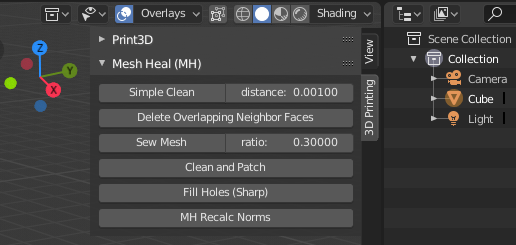
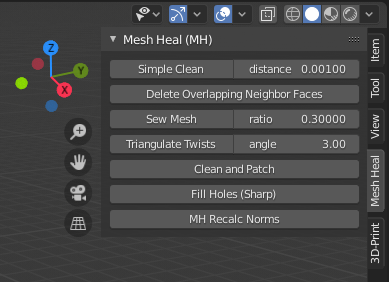
Update documentation (Triangulate Twisted Faces)

diff --git a/doc/html/searchindex.js b/doc/html/searchindex.js
@@ -1,1 +1,1 @@
-Search.setIndex({docnames:["index","mesh_heal"],envversion:{"sphinx.domains.c":1,"sphinx.domains.changeset":1,"sphinx.domains.cpp":1,"sphinx.domains.javascript":1,"sphinx.domains.math":2,"sphinx.domains.python":1,"sphinx.domains.rst":1,"sphinx.domains.std":1,sphinx:54},filenames:["index.rst","mesh_heal.rst"],objects:{},objnames:{},objtypes:{},terms:{"case":1,"default":1,"final":1,"try":1,The:1,Then:1,abov:1,action:1,activ:1,added:1,addit:1,affect:1,algorithm:1,all:1,also:1,altern:1,alwai:1,analysi:1,angl:1,approach:1,appropri:1,aspect:1,attempt:1,avail:1,bad:1,bar:1,been:1,below:1,best:1,blender2:1,blender:1,both:1,boundari:1,branch:1,calcul:1,can:1,cast:1,check:1,choos:1,clone:1,close:1,closebi:1,code:1,com:1,combin:1,commun:1,confirm:1,connect:1,consist:1,contain:1,content:0,continu:1,conveni:1,convert:1,correct:1,could:1,creat:1,current:1,cycl:1,dangl:1,depend:1,descript:1,determin:1,difficult:1,direct:1,distanc:1,document:0,doe:1,don:1,done:1,download:1,each:1,edg:1,edit:1,either:1,emiss:1,enabl:1,especi:1,exampl:1,fail:1,few:1,fewer:1,file:1,finish:1,first:1,form:1,from:1,get:1,github:1,good:1,guarante:1,have:1,heurist:1,high:1,hit:1,how:1,http:1,ident:1,includ:1,inform:1,inner:1,insid:1,instal:0,instruct:1,intersect:1,introduct:0,isosurfac:1,issu:1,iter:1,layer:1,left:1,length:1,level:1,list:1,locat:1,loop:1,made:1,main:1,make:1,mani:1,manifold:1,mark:1,master:1,mean:1,meant:1,measur:1,menu:1,merg:1,mesh_heal:1,method:1,mode:1,non:1,normal:1,number:1,obj:1,object:1,offici:1,ons:1,open:1,oper:1,opposit:1,order:1,outer:1,outward:1,own:1,pair:1,panel:1,part:1,phase:1,pleas:1,possibl:1,prefer:1,prepend:1,primarili:1,print:1,problem:1,process:1,produc:1,progress:1,propag:1,rai:1,ratio:1,ration:1,recalcul:1,recommend:0,recurs:1,reduc:1,refil:1,reli:1,remov:1,render:1,repeat:1,repeatedli:1,report:1,requir:1,result:1,risk:1,routin:1,run:1,seam:1,search:1,see:1,select:1,set:1,sever:1,shader:1,shapest:1,share:1,sharpest:1,show:1,side:1,slow:1,smaller:1,smallest:1,some:1,sourc:1,specif:1,start:1,support:1,surfac:1,tab:1,task:1,than:1,therefor:1,thi:1,threshold:1,tkeskita:1,tool:1,toolbox:1,triangl:1,two:1,unfortun:1,unprocess:1,until:1,usag:0,use:1,using:1,valu:1,version:1,vertex:1,vertic:1,volum:1,volumetr:1,warn:0,well:1,what:1,when:1,which:1,whose:1,work:1,world:1,would:1,your:1,zip:1},titles:["Mesh Heal add-on","Mesh Heal add-on documentation"],titleterms:{add:[0,1],clean:1,delet:1,document:1,face:1,feedback:1,fill:1,heal:[0,1],hole:1,instal:1,introduct:1,mesh:[0,1],neighbor:1,norm:1,overlap:1,patch:1,recalc:1,recommend:1,sew:1,sharp:1,simpl:1,usag:1,warn:1}})
+Search.setIndex({docnames:["index","mesh_heal"],envversion:{"sphinx.domains.c":1,"sphinx.domains.changeset":1,"sphinx.domains.cpp":1,"sphinx.domains.javascript":1,"sphinx.domains.math":2,"sphinx.domains.python":1,"sphinx.domains.rst":1,"sphinx.domains.std":1,sphinx:54},filenames:["index.rst","mesh_heal.rst"],objects:{},objnames:{},objtypes:{},terms:{"case":1,"default":1,"final":1,"try":1,The:1,Then:1,abov:[],action:1,activ:1,added:1,addit:1,affect:1,again:1,algorithm:1,all:1,also:1,altern:1,alwai:1,analysi:1,angl:1,approach:1,appropri:1,aspect:1,attempt:1,avail:1,bad:1,bar:1,been:1,below:1,best:1,between:1,blender2:1,blender:1,both:1,boundari:1,branch:1,calcul:1,can:1,cast:1,center:1,check:1,choos:1,clone:1,close:1,closebi:1,code:1,com:1,combin:1,commun:1,compar:1,confirm:1,connect:1,consist:1,contain:1,content:0,continu:1,conveni:1,convert:1,correct:1,could:1,creat:1,current:1,cycl:1,dangl:1,depend:1,descript:1,determin:1,difficult:1,direct:1,distanc:1,document:0,doe:1,don:1,done:1,download:1,each:1,edg:1,edit:1,either:1,emiss:1,enabl:1,especi:1,exampl:1,exce:1,exceed:[],fail:1,few:1,fewer:1,file:1,finish:1,first:1,form:1,from:1,get:1,github:1,given:1,good:1,guarante:1,have:1,heurist:1,high:1,hit:1,how:1,http:1,ident:1,includ:1,inform:1,inner:1,insid:1,instal:0,instruct:1,intersect:1,introduct:0,isosurfac:1,issu:1,iter:1,layer:1,left:1,length:1,level:1,list:1,locat:1,loop:1,made:1,main:1,make:1,mani:1,manifold:1,mark:1,master:1,maximum:1,mean:1,meant:1,measur:1,median:1,menu:1,merg:1,mesh_heal:1,method:1,mode:1,non:1,normal:1,number:1,obj:1,object:1,offici:1,ons:1,open:1,oper:1,opposit:1,order:1,outer:1,outward:1,own:1,pair:1,panel:1,paramet:1,part:1,phase:1,pleas:1,point:1,possibl:1,prefer:1,prepend:1,primarili:1,print:1,problem:1,process:1,produc:1,progress:1,propag:1,rai:1,ratio:1,ration:1,recalcul:1,recommend:0,recurs:1,reduc:1,refil:1,reli:1,remov:1,render:1,repeat:1,repeatedli:1,report:1,requir:1,result:1,risk:1,routin:1,run:1,seam:1,search:1,see:1,select:1,set:1,sever:1,shader:1,shapest:1,share:1,sharpest:1,show:1,side:1,slow:1,smaller:1,smallest:1,some:1,sourc:1,specif:1,split:1,start:1,support:1,surfac:1,tab:1,task:1,than:1,therefor:1,thi:1,threshold:1,tkeskita:1,tool:1,toolbox:1,triangl:1,triangular:1,two:1,unfortun:1,unprocess:1,until:1,usag:0,use:1,using:1,valu:1,vector:1,version:1,vertex:1,vertic:1,volum:1,volumetr:1,warn:0,well:1,what:1,when:1,which:1,whose:1,work:1,world:1,would:1,your:1,zip:1},titles:["Mesh Heal add-on","Mesh Heal add-on documentation"],titleterms:{add:[0,1],clean:1,delet:1,document:1,face:1,feedback:1,fill:1,heal:[0,1],hole:1,instal:1,introduct:1,mesh:[0,1],neighbor:1,norm:1,overlap:1,patch:1,recalc:1,recommend:1,sew:1,sharp:1,simpl:1,triangul:1,twist:1,usag:1,warn:1}})

diff --git a/doc/html/mesh_heal.html b/doc/html/mesh_heal.html
@@ -88,6 +88,7 @@
 <li class="toctree-l3"><a class="reference internal" href="#simple-clean">Simple Clean</a></li>
 <li class="toctree-l3"><a class="reference internal" href="#delete-overlapping-neighbor-faces">Delete Overlapping Neighbor Faces</a></li>
 <li class="toctree-l3"><a class="reference internal" href="#sew-mesh">Sew Mesh</a></li>
+<li class="toctree-l3"><a class="reference internal" href="#triangulate-twisted-faces">Triangulate Twisted Faces</a></li>
 <li class="toctree-l3"><a class="reference internal" href="#clean-and-patch">Clean and Patch</a></li>
 <li class="toctree-l3"><a class="reference internal" href="#fill-holes-sharp">Fill Holes (Sharp)</a></li>
 <li class="toctree-l3"><a class="reference internal" href="#mh-recalc-norms">MH Recalc Norms</a></li>
@@ -216,8 +217,7 @@ Toolbox add-on (which is a requirement for Mesh Heal add-on).</p>
 <div class="section" id="usage">
 <h2>Usage<a class="headerlink" href="#usage" title="Permalink to this headline">¶</a></h2>
 <p>Mesh Heal (MH) add-on tools are currently available in object
-mode. Tools are located in “Print 3D” tab in the Side Bar, below
-or above 3D Print Toolbox.</p>
+mode. Tools are located in “Mesh Heal” tab in the Side Bar.</p>
 <img alt="_images/mesh_heal_tab.png" src="_images/mesh_heal_tab.png" />
 <p>All operators are available in object mode (and some in edit mode as
 well). Operators are listed in operator search menu prepended with
@@ -248,6 +248,17 @@ boundary vertices (sew open seams). Boundary vertices are merged
 if ratio of vertex pair distance to smallest boundary edge length
 (of edges connected to either vertex) is smaller than threshold.</p>
 <img alt="_images/mesh_heal_sew.png" src="_images/mesh_heal_sew.png" />
+</div>
+<div class="section" id="triangulate-twisted-faces">
+<h3>Triangulate Twisted Faces<a class="headerlink" href="#triangulate-twisted-faces" title="Permalink to this headline">¶</a></h3>
+<p>Splits twisted faces into triangular faces. Twist is determined by the
+angle between face normal and vertex vectors. Vertex vector is the
+vector from face median center point to a face vertex. Angles of all
+vertex vectors are checked, and the maximum angle is compared agains
+given angle parameter. If maximum angle exceeds parameter value, then
+the face is split into triangles and added to current face
+selection.</p>
+<img alt="_images/mesh_heal_twist.png" src="_images/mesh_heal_twist.png" />
 </div>
 <div class="section" id="clean-and-patch">
 <h3>Clean and Patch<a class="headerlink" href="#clean-and-patch" title="Permalink to this headline">¶</a></h3>
